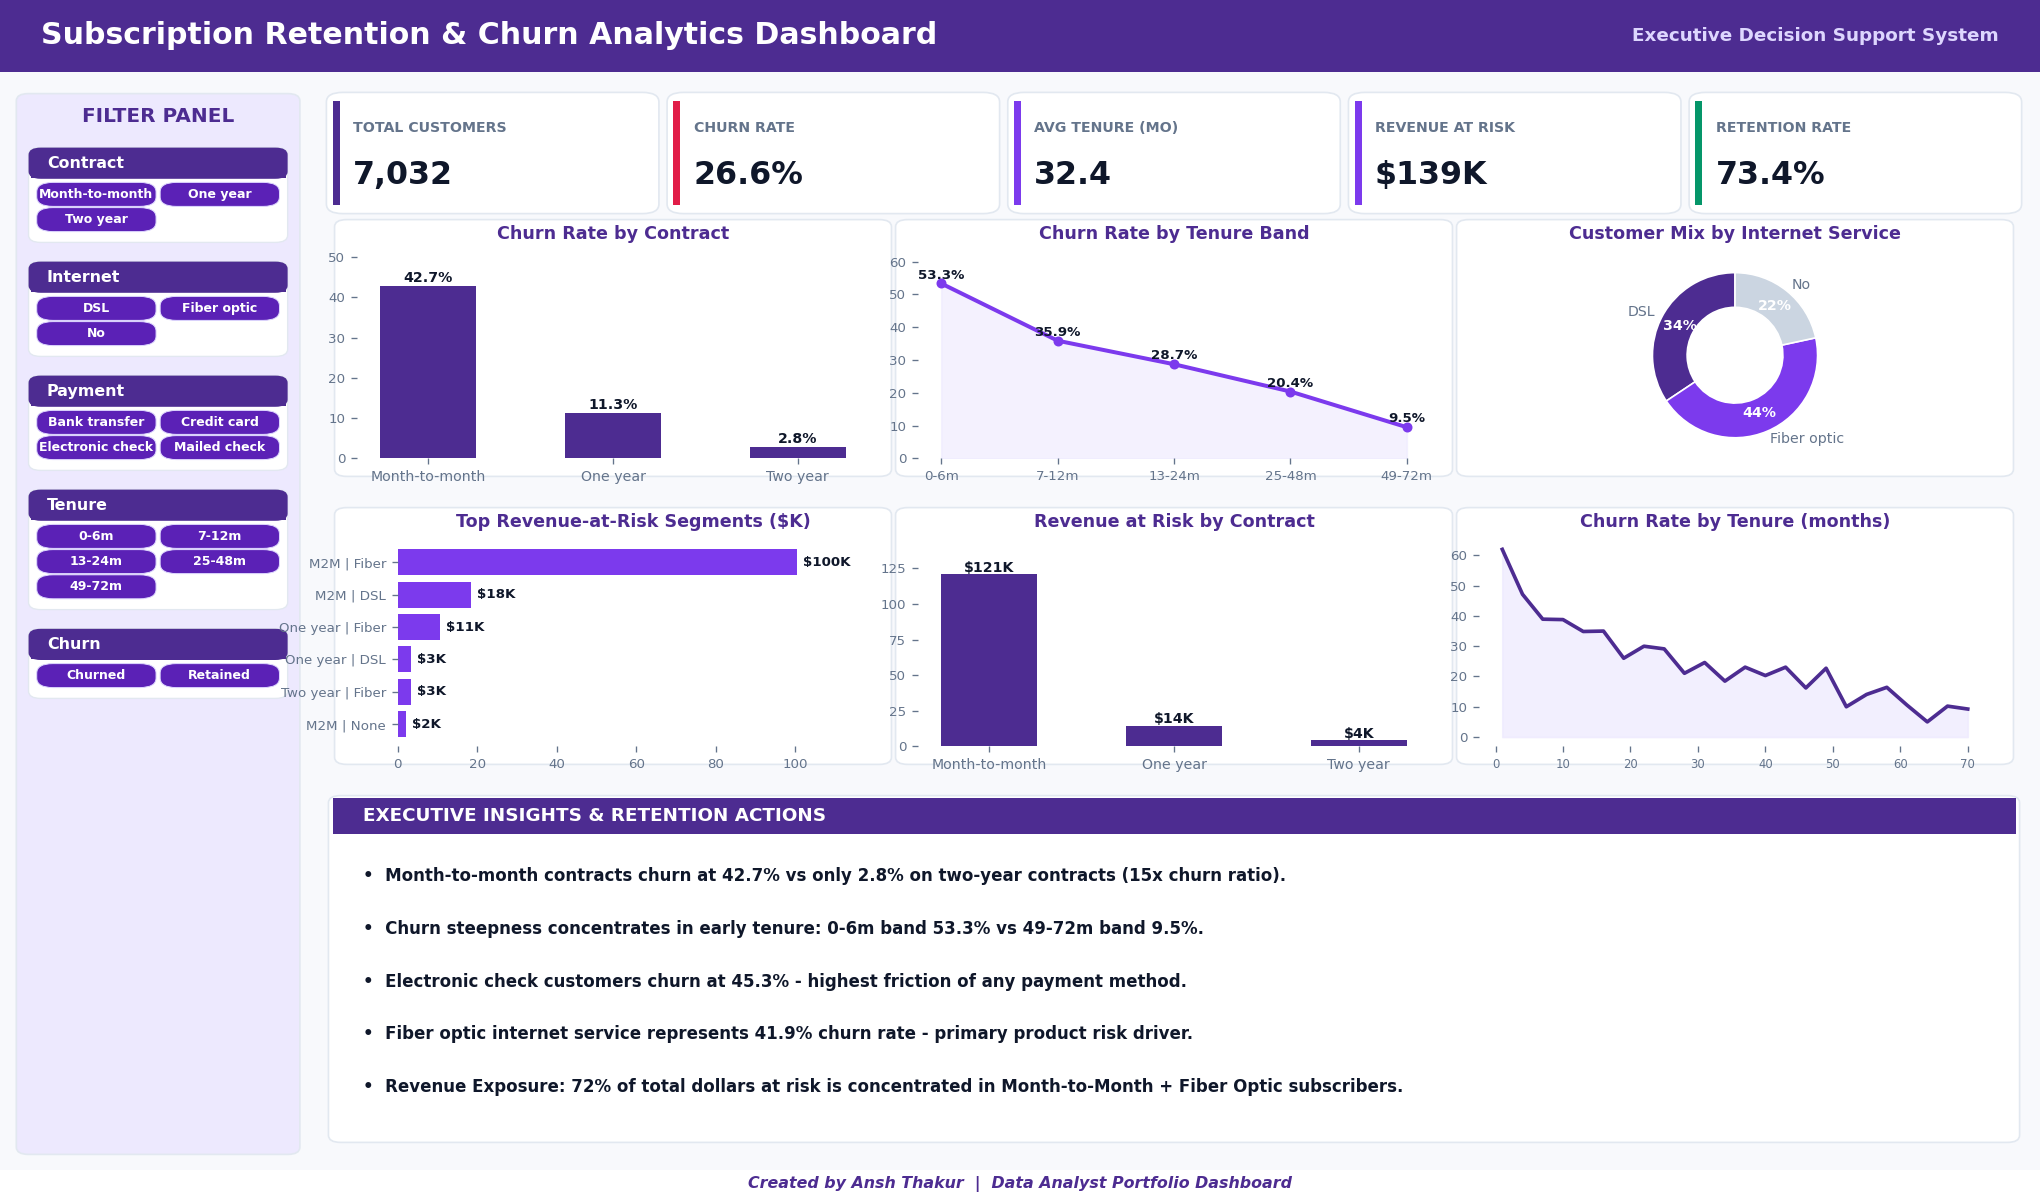
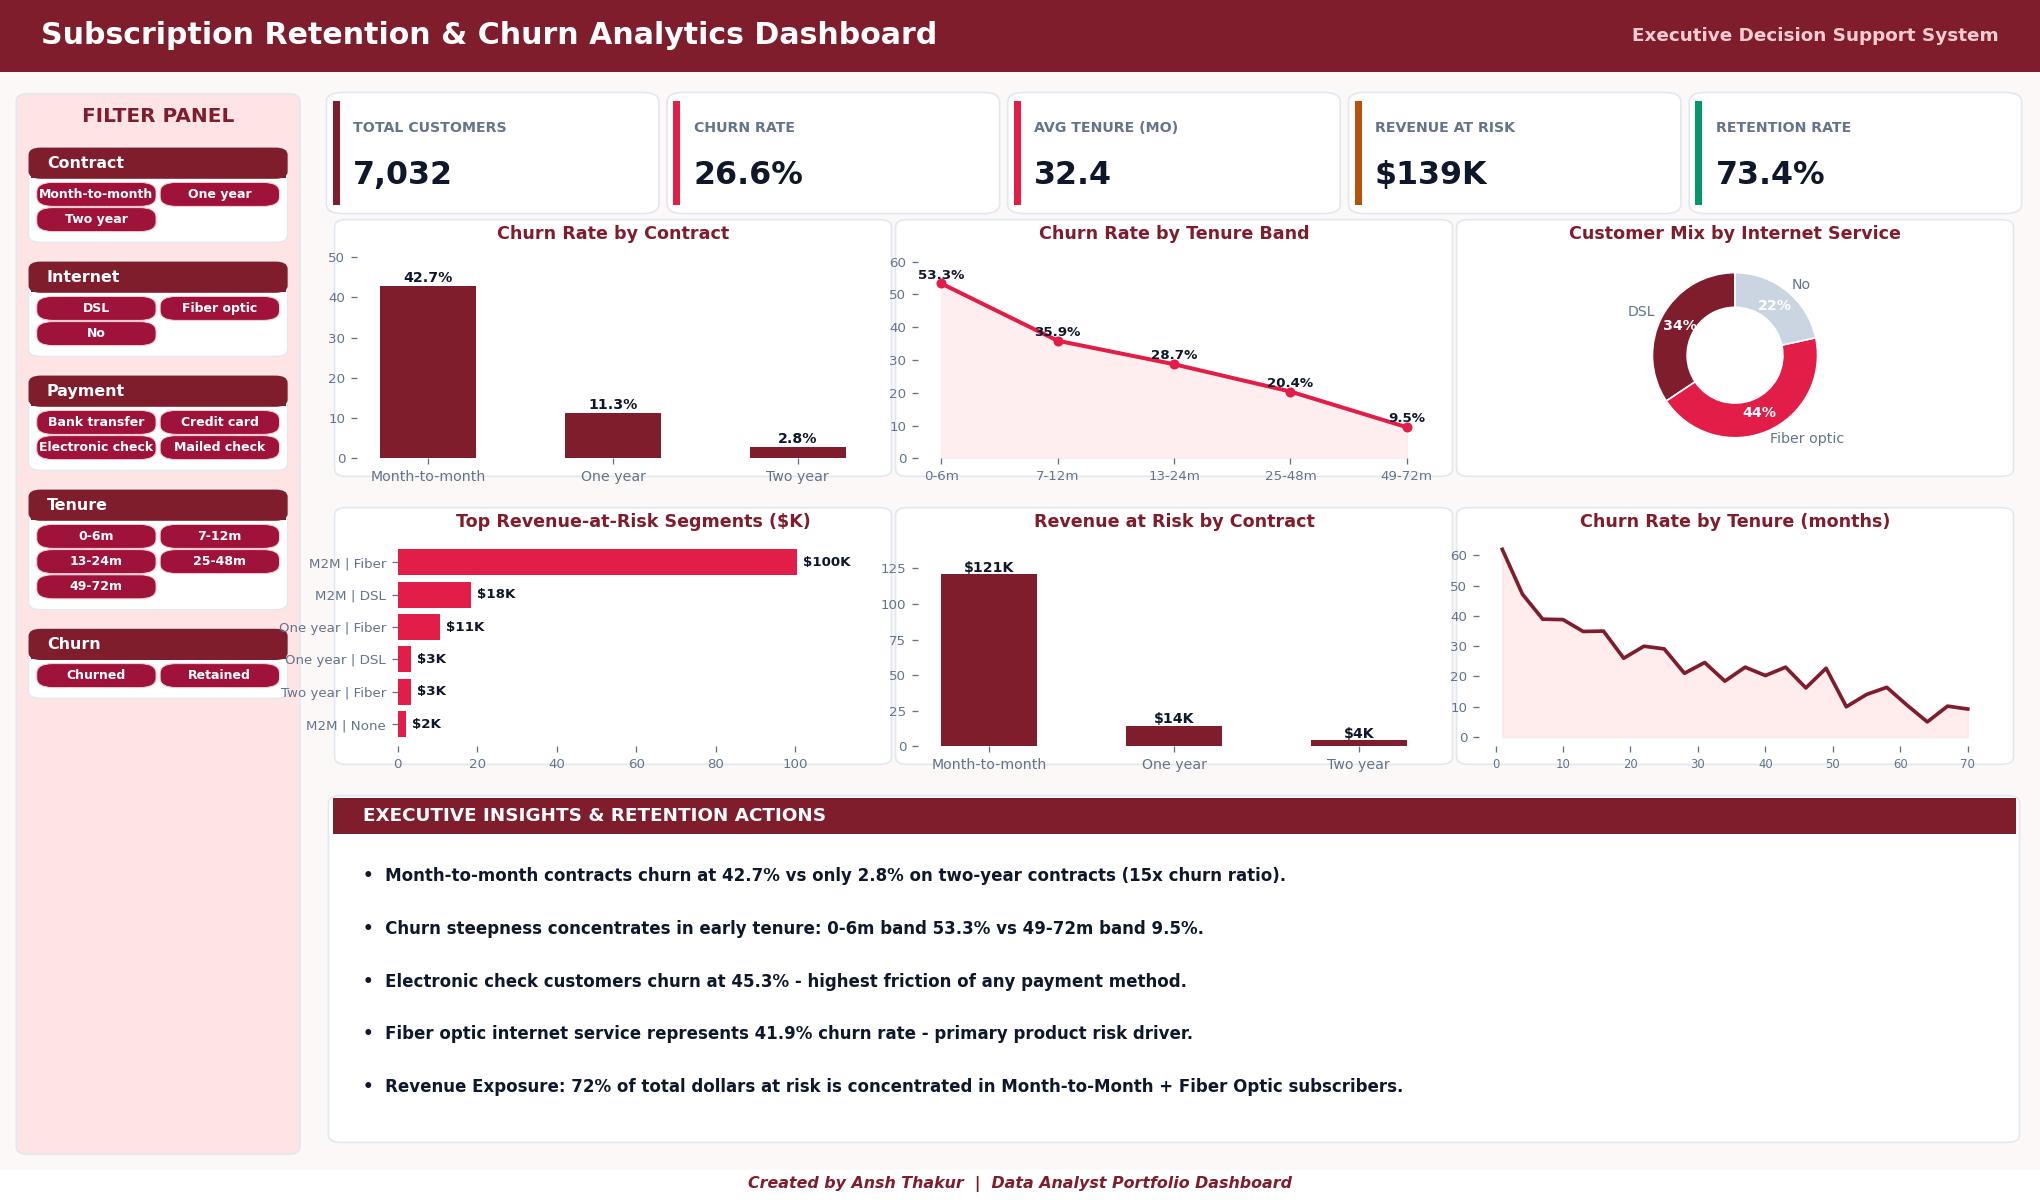
docs: long-form README deep-dives with model handbook, sync modern churn dashboard

diff --git a/01_ride-demand-and-revenue-forecasting/README.md b/01_ride-demand-and-revenue-forecasting/README.md
@@ -96,6 +96,40 @@ Python-driven exploration of cleaned trip data including:
 
 ---
 
+## Visual Deep-Dive & Model Handbook
+
+*Predictive layer built on the 35,000-trip dataset (EDA/dashboard layer lives in the Data Analytics repo). All figures below are produced by `Forecast_Clustering_Analysis.ipynb`.*
+
+### Model scorecard
+
+| Model | Task | Metric |
+|---|---|---|
+| SARIMA | 14-day demand forecast | **MAPE 8.3%** — the forecast tracks actuals within single digits |
+| Random Forest | Route-level fare prediction | **R² 0.972** — distance/time features explain nearly all fare variance |
+| K-Means | Demand-cell clustering | Pickup cells grouped into demand profiles (`outputs/demand_cluster_cells.csv`) |
+
+### Chart-by-chart walkthrough
+
+**14-Day Demand Forecast** — SARIMA fitted on daily trip counts projected two weeks ahead: the forecast band follows the weekly seasonality (weekday commuter humps, weekend shape) with an 8.3% mean absolute percentage error. Operations use this to pre-position drivers before the evening surge rather than reacting to it.
+
+![14-Day Forecast](image/forecast_14day.png)
+
+**Daily Demand + Residuals** — the fitted-vs-actual demand curve plus the residual diagnostics: residuals scatter around zero with no surviving structure, which is the statistical check that the SARIMA orders actually captured the seasonality instead of overfitting noise.
+
+![Daily Demand](image/forecast_daily_demand.png)
+![Forecast Residuals](image/forecast_residuals.png)
+
+**Demand Cluster Profiles** — K-Means segments pickup cells into demand profiles (e.g., commuter-evening, airport-premium, steady-local). Each cluster gets its own surge/incentive rule instead of one city-wide policy — the operational payoff of the whole forecasting layer.
+
+![Clustering Profiles](image/clustering_profiles.png)
+
+**Supporting EDA visuals** — the hourly demand curve (6 PM peak at 4,053 trips), vehicle revenue split, airport share (39.6% of volume, 54.8% of revenue), zone Pareto and rating-vs-fare views are documented with the same numbers as the analytics layer:
+
+![Hourly Demand](image/uber_hourly_demand.png)
+![Airport Share](image/uber_airport_share.png)
+
+---
+
 ## Core Analytical Insights
 
 ![Correlation Heatmap](image/Ubertrip_heatmap.png)

diff --git a/02_subscription-retention-prediction/README.md b/02_subscription-retention-prediction/README.md
@@ -85,6 +85,34 @@ structural, not sampling noise:
 | Monthly revenue at risk (churned) | $139.1K |
 | Avg tenure | 32.4 months |
 
+### KPI Handbook — what each headline number means
+
+| KPI | Value | Definition |
+|---|---|---|
+| Total Customers | **7,032** | Rows after dropping missing `TotalCharges` (7,043 raw) |
+| Churn Rate | **26.6%** | 1,869 churned / 7,032 customers |
+| Avg Tenure | **32.4 months** | Mean months with the provider |
+| Revenue at Risk | **$139.1K** | Sum of `MonthlyCharges` over churned customers |
+| Model Accuracy | **80.0%** | Held-out accuracy (LogReg + Random Forest) |
+| Model ROC-AUC | **0.839** | Held-out ranking quality — the model reliably scores would-be churners above stayers |
+
+### Chart-by-chart walkthrough
+
+**Confusion Matrix + ROC Curve** — the model evaluation pair: the confusion matrix shows where errors concentrate (false positives = wasted retention offers, false negatives = lost customers), and the ROC curve (AUC 0.839) shows strong separation well above the 0.5 diagonal. Threshold choice is a business call: lower it to catch more churners when retention offers are cheap, raise it when offers are expensive.
+
+![Confusion Matrix & ROC](image/churn_cm_roc.png)
+
+**Churn Drivers (feature importance)** — the explainability view: contract type, tenure band and internet service dominate the model, matching the EDA findings (42.7% month-to-month churn, 53.3% 0–6m churn). The model rediscovers the business logic independently, which is why stakeholders trust its ranked customer list.
+
+![Churn Drivers](image/churn_drivers.png)
+
+**Churn by Contract / Tenure / Service** — the EDA foundation the model stands on: 42.7% vs 11.3% vs 2.8% by contract, 53.3% → 9.5% across tenure bands, fiber as the highest-risk service. Full per-chart explanations live in the analytics layer.
+
+![Churn by Contract](image/churn_by_contract.png)
+![Churn by Tenure](image/churn_by_tenure.png)
+
+**Revenue-at-Risk Segments** — M2M + Fiber ≈ $100K of the $139K total exposure (~72%). The model's output is this ranked segment/customer list (`outputs/churn_segment_revenue.csv`), not an accuracy trophy.
+
 ---
 
 ## Business Questions Answered
